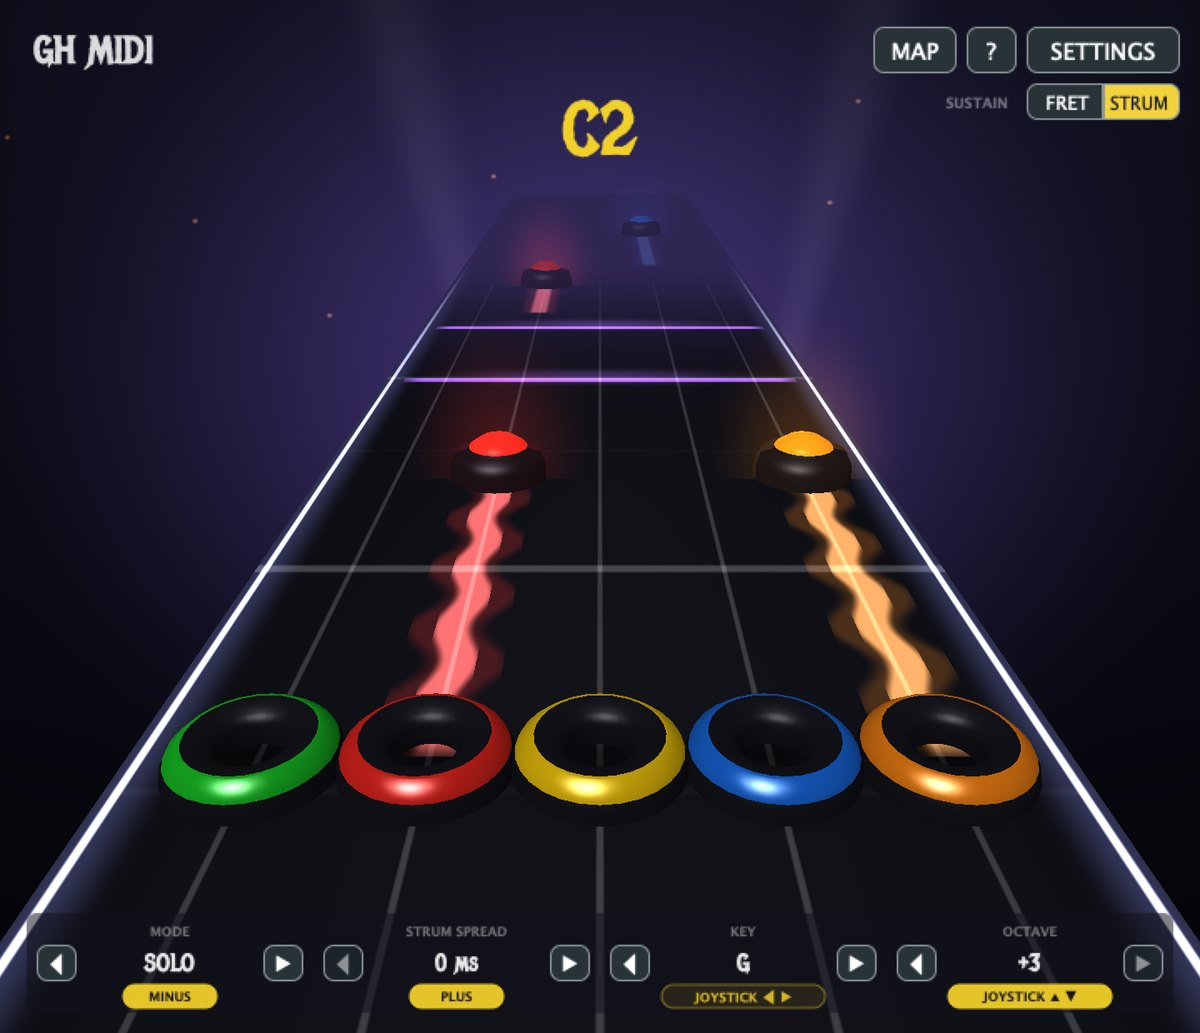
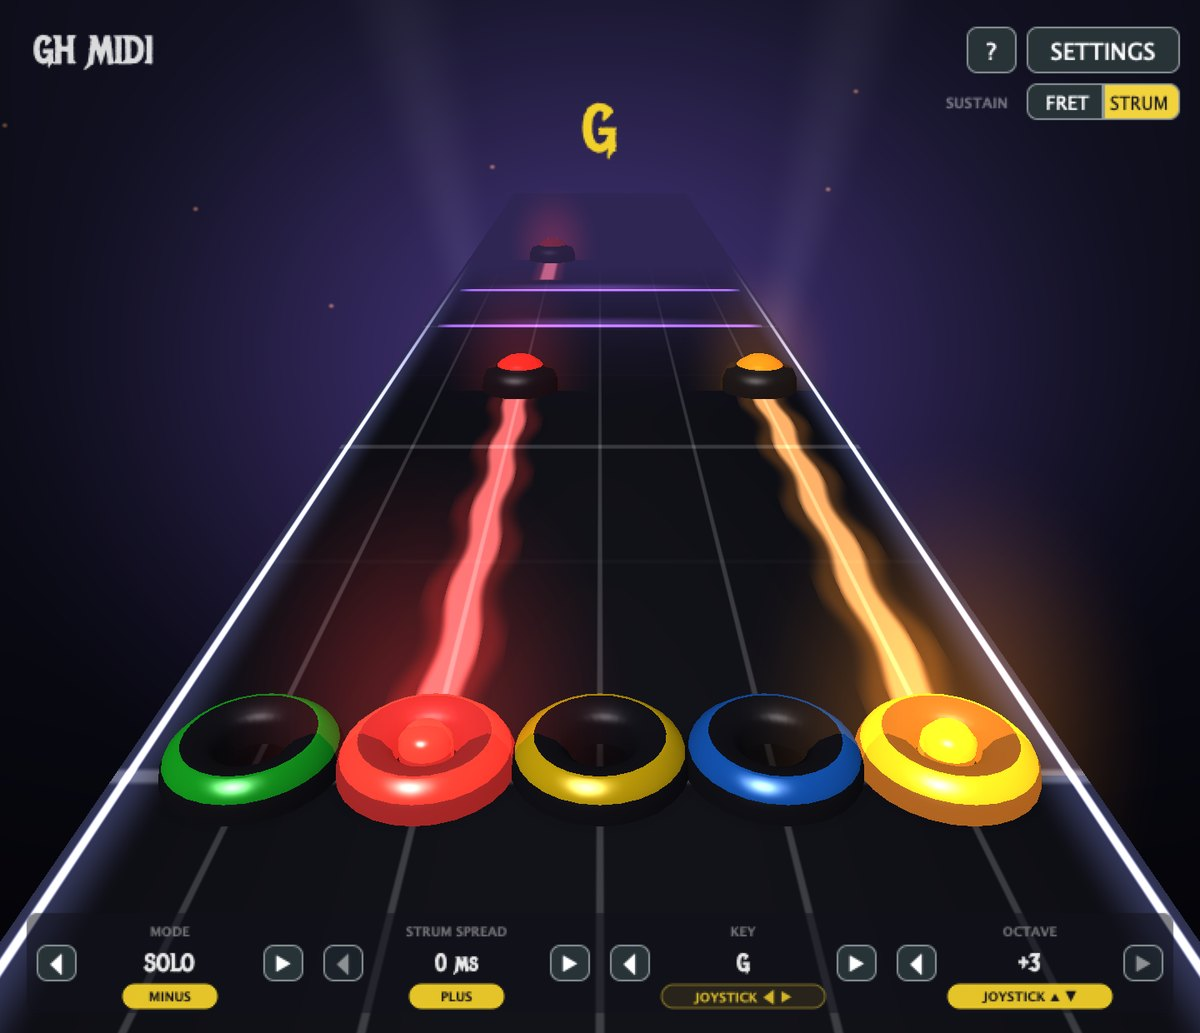
Remove the MAP overlay; final v1.1 build
The fret-shape legend lives in the guide instead. Screenshots regenerated
without the MAP button; README and guide no longer mention it.

diff --git a/plugin/src/PluginEditor.cpp b/plugin/src/PluginEditor.cpp
@@ -35,11 +35,7 @@ juce::Rectangle<int> panelBounds(int W, int H)
 }
 juce::Rectangle<int> helpBounds(int W, int H)
 {
-    return { W / 2 - 230, H / 2 - 215, 460, 430 };
-}
-juce::Rectangle<int> mapBounds(int W, int H)
-{
-    return { W / 2 - 250, H / 2 - 200, 500, 400 };
+    return { W / 2 - 230, H / 2 - 205, 460, 410 };
 }
 // bottom row: MODE / STRUM / KEY / OCTAVE plate — label row, value row with
 // arrows, then a badge naming the guitar control (minus and plus side by side)
@@ -61,13 +57,9 @@ GHMidiEditor::GHMidiEditor(GHMidiProcessor& p)
     context.attachTo(*this);
 
     addAndMakeVisible(gearBtn);
-    gearBtn.onClick = [this] { setHelpVisible(false); setMapVisible(false); setPanelVisible(! panelOpen); };
+    gearBtn.onClick = [this] { setHelpVisible(false); setPanelVisible(! panelOpen); };
     addAndMakeVisible(helpBtn);
-    helpBtn.onClick = [this] { setPanelVisible(false); setMapVisible(false); setHelpVisible(! helpOpen); };
-    addAndMakeVisible(mapBtn);
-    mapBtn.onClick = [this] { setPanelVisible(false); setHelpVisible(false); setMapVisible(! mapOpen); };
-    addChildComponent(mapCloseBtn);
-    mapCloseBtn.onClick = [this] { setMapVisible(false); };
+    helpBtn.onClick = [this] { setPanelVisible(false); setHelpVisible(! helpOpen); };
 
     // sustain selector: a radio pair, the active side in gold
     sustainLabel.setText("SUSTAIN", juce::dontSendNotification);
@@ -254,17 +246,9 @@ void GHMidiEditor::setHelpVisible(bool visible)
     repaint();
 }
 
-void GHMidiEditor::setMapVisible(bool visible)
-{
-    mapOpen = visible;
-    mapCloseBtn.setVisible(visible);
-    updateHudButtons();
-    repaint();
-}
-
 void GHMidiEditor::updateHudButtons()
 {
-    const bool show = ! panelOpen && ! helpOpen && ! mapOpen;
+    const bool show = ! panelOpen && ! helpOpen;
     for (auto* c : std::initializer_list<juce::Component*> {
              &modePrev, &modeNext, &strumPrev, &strumNext, &keyPrev, &keyNext, &octPrev, &octNext })
         c->setVisible(show);
@@ -325,14 +309,10 @@ void GHMidiEditor::timerCallback()
             case 75:  saveHudSnapshot("solo_maxoct"); break;
             case 77:  svc.uiMode = 3; svc.uiButtonBits = 0; svc.announceFrets(0x03); break;
             case 79:  saveHudSnapshot("chart"); break;
-            case 82:  svc.uiMode = 0; svc.uiKey = 7; svc.uiEasyOct = 0; svc.uiFretBits = 0x03; setMapVisible(true); break;
-            case 88:  saveHudSnapshot("map_chords"); break;
-            case 90:  svc.uiMode = 1; svc.uiKey = 0; svc.uiOctave = 0; svc.uiFretBits = 5; break;
-            case 96:  saveHudSnapshot("map_notes"); break;
-            case 98:  svc.uiFretBits = 0; setMapVisible(false); setHelpVisible(true); break;
-            case 106: saveHudSnapshot("help"); break;
-            case 108: setHelpVisible(false); setPanelVisible(true); break;
-            case 116: saveHudSnapshot("settings"); break;
+            case 82:  setHelpVisible(true); break;
+            case 90:  saveHudSnapshot("help"); break;
+            case 95:  setHelpVisible(false); setPanelVisible(true); break;
+            case 105: saveHudSnapshot("settings"); break;
             case 135: juce::JUCEApplicationBase::quit(); break;
             default: break;
         }
@@ -381,11 +361,6 @@ void GHMidiEditor::resized()
     highway.setViewSize(getWidth(), getHeight());
     gearBtn.setBounds(getWidth() - 104, 16, 92, 28);
     helpBtn.setBounds(getWidth() - 140, 16, 30, 28);
-    mapBtn.setBounds(getWidth() - 196, 16, 50, 28);
-    {
-        const auto mb = mapBounds(getWidth(), getHeight());
-        mapCloseBtn.setBounds(mb.getRight() - 40, mb.getY() + 12, 28, 26);
-    }
     // SUSTAIN  [FRET][STRUM]  -- flush right with SETTINGS, one row below it
     sustainStrumBtn.setBounds(getWidth() - 104 + 46, 50, 46, 22);
     sustainFretBtn.setBounds(getWidth() - 104, 50, 46, 22);
@@ -612,7 +587,6 @@ void GHMidiEditor::paint(juce::Graphics& g)
         line("PLUS", "tap through strum speeds (0-50ms)");
         line("JOYSTICK", "left/right = key - up/down = octave");
         line("ON SCREEN", "the bottom arrows do all of the above too");
-        line("MAP", "every fret shape in this mode and key, live");
         rowY += 8;
         section("MODES");
         line("CHORDS", "every fret is a chord in your key. can't miss", 70);
@@ -620,128 +594,5 @@ void GHMidiEditor::paint(juce::Graphics& g)
         line("NOTES", "fret combos pick all 32 notes. full control", 70);
         line("CHART", "frets = Clone Hero lanes. record a rough chart", 70);
     }
-    else if (mapOpen)
-    {
-        // MAP: every fret shape the current mode can play, named for the current key,
-        // GHMix-style: five gem tabs per row, the held shape's row lit
-        const auto mb = mapBounds(getWidth(), getHeight());
-        const int mode = proc.guitar().uiMode.load() % 4;
-        const int key = proc.guitar().uiKey.load() % 12;
-        const int oct = mode == 0 ? proc.guitar().uiEasyOct.load() : proc.guitar().uiOctave.load();
-        const int held = proc.guitar().uiFretBits.load();
-        auto label = [&](int mask) { return GuitarService::comboLabel(mode, mask, key, oct); };
-        auto noteNm = [&](int n) { return juce::String(keyNames[n % 12]) + juce::String(n / 12 - 1); };
 
-        drawOverlayFrame(mb.toFloat(), juce::String("MAP  ") + modeNames[mode]);
-        juce::String sub;
-        if (mode == 1)
-            sub = "base " + noteNm(40 + key + oct) + "  ·  G=1  R=2  Y=4  B=8  O=16, add up = semitones above base";
-        else if (mode == 3)
-            sub = "Clone Hero lanes  ·  expert · hard · medium · easy";
-        else
-            sub = "key of " + juce::String(keyNames[key]) + (oct != 0 ? "  ·  octave " + juce::String(oct > 0 ? "+" : "") + juce::String(oct / 12) : juce::String());
-        g.setColour(juce::Colours::white.withAlpha(0.45f));
-        g.setFont(juce::Font(juce::FontOptions(11.0f)));
-        g.drawText(sub, mb.getX() + 20, mb.getY() + 42, mb.getWidth() - 40, 14, juce::Justification::left);
-
-        auto tabs = [&](int x, int y, int mask)
-        {
-            for (int i = 0; i < 5; ++i)
-            {
-                juce::Path p;
-                p.addRoundedRectangle((float) (x + i * 12), (float) y, 9.0f, 15.0f, 2.5f, 2.5f, false, false, true, true);
-                g.setColour((mask & (1 << i)) ? gemColours[i] : juce::Colour(0xff2b2b36));
-                g.fillPath(p);
-            }
-        };
-        auto row = [&](int x, int y, int w, int mask, const juce::String& text, bool hi)
-        {
-            if (hi)
-            {
-                g.setColour(gold.withAlpha(0.18f));
-                g.fillRoundedRectangle((float) x - 6.0f, (float) y - 4.0f, (float) w, 23.0f, 4.0f);
-            }
-            tabs(x, y, mask);
-            g.setColour(juce::Colours::white.withAlpha(hi ? 0.95f : 0.85f));
-            g.setFont(juce::Font(juce::FontOptions(12.5f)));
-            g.drawText(text, x + 68, y - 2, w - 74, 18, juce::Justification::left);
-        };
-        auto header = [&](int x, int y, const juce::String& s)
-        {
-            g.setColour(juce::Colours::white.withAlpha(0.38f));
-            g.setFont(juce::Font(juce::FontOptions(9.0f, juce::Font::bold)));
-            g.drawText(s, x, y, 300, 10, juce::Justification::left);
-        };
-        auto footnote = [&](const juce::String& s)
-        {
-            g.setColour(juce::Colours::white.withAlpha(0.4f));
-            g.setFont(juce::Font(juce::FontOptions(11.0f)));
-            g.drawText(s, mb.getX() + 30, mb.getBottom() - 54, mb.getWidth() - 60, 14, juce::Justification::left);
-        };
-        const int top = mb.getY() + 74;
-        if (mode == 0)
-        {
-            const int hiMask = held != 0 ? GuitarService::easyRowMask(held) : -1;
-            int x = mb.getX() + 30, y = top;
-            header(x, y, "ONE FRET");
-            y += 18;
-            for (int m : { 1, 2, 4, 8, 16 })
-            {
-                row(x, y, 210, m, label(m), hiMask == m);
-                y += 25;
-            }
-            row(x, y, 210, 0, label(0) + "   open, low", false);
-            x = mb.getX() + 268;
-            y = top;
-            header(x, y, "TWO FRETS");
-            y += 18;
-            for (int m : { 3, 6, 12, 24, 5, 20, 10, 9, 18 })
-            {
-                row(x, y, 210, m, label(m), hiMask == m);
-                y += 25;
-            }
-            footnote("any other shape plays its highest fret's chord");
-        }
-        else if (mode == 1)
-        {
-            for (int n = 0; n < 32; ++n)
-            {
-                const int x = mb.getX() + 24 + (n / 8) * 114;
-                const int y = top + (n % 8) * 26;
-                row(x, y, 110, n, label(n), held == n);
-            }
-            footnote("frets change silently until the next strum");
-        }
-        else if (mode == 2)
-        {
-            static const char* deg[] = { "1", "2", "3", "5", "6" };
-            int x = mb.getX() + 30, y = top;
-            header(x, y, "FRET   SCALE STEP   NOTE");
-            y += 18;
-            for (int i = 0; i < 5; ++i)
-            {
-                row(x, y, 260, 1 << i, juce::String(deg[i]) + "      " + label(1 << i), held == (1 << i));
-                y += 25;
-            }
-            row(x, y, 260, 0, "open   " + label(0), false);
-            footnote("hold several and strum: they all sound, and each stops when its fret lifts");
-        }
-        else
-        {
-            int x = mb.getX() + 30, y = top;
-            header(x, y, "LANE");
-            header(x + 150, y, "EXPERT     HARD     MEDIUM     EASY");
-            y += 18;
-            for (int i = 0; i < 5; ++i)
-            {
-                row(x, y, 420, 1 << i, label(1 << i), (held & (1 << i)) != 0);
-                g.setColour(juce::Colours::white.withAlpha(0.6f));
-                g.setFont(juce::Font(juce::FontOptions(12.0f)));
-                g.drawText(juce::String(96 + i) + "            " + juce::String(84 + i) + "            " + juce::String(72 + i) + "            " + juce::String(60 + i),
-                           x + 150, y - 2, 260, 18, juce::Justification::left);
-                y += 25;
-            }
-            footnote("all four difficulties are written at once");
-        }
-    }
 }

diff --git a/guide/build_guide.py b/guide/build_guide.py
@@ -251,12 +251,12 @@ def p_controller():
 <p>The WUSBMote only finds the guitar <b>when it gets power</b>. If the screen says <i>adapter can't see the guitar</i>: unplug USB, seat the guitar plug, plug USB back in.</p>"""
 
 def p_screen():
-    callouts = [(68, 5, 1), (57, 14, 2), (50, 58, 3), (12, 92, 4), (37, 92, 5), (62, 92, 6), (87, 92, 7), (69, 10.5, 8)]
+    callouts = [(76, 5, 1), (57, 14, 2), (50, 58, 3), (12, 92, 4), (37, 92, 5), (62, 92, 6), (87, 92, 7), (69, 10.5, 8)]
     dots = "".join(f'<span class="callout" style="left:{x}%;top:{y}%">{n}</span>' for x, y, n in callouts)
     return h2("05", "The screen") + f"""
 <div class="shotwrap mid"><img class="shot" src="assets/ui-chords.jpg" alt="">{dots}</div>
 <table class="legend">
-<tr><td><span class="cn">1</span></td><td><b>MAP, ? and SETTINGS</b> — every fret shape for this mode and key, a quick controls reminder, and the settings panel.</td></tr>
+<tr><td><span class="cn">1</span></td><td><b>? and SETTINGS</b> — quick controls reminder, and the settings panel.</td></tr>
 <tr><td><span class="cn">2</span></td><td><b>What you played</b> — the chord or note name, and every setting change.</td></tr>
 <tr><td><span class="cn">3</span></td><td><b>The highway</b> — your notes travel away as gems. Held notes trail; the whammy wiggles them.</td></tr>
 <tr><td><span class="cn">4</span></td><td><b>MODE</b> — CHORDS, NOTES, SOLO or CHART. Arrows or minus.</td></tr>
@@ -326,9 +326,7 @@ def p_chords():
 </table>
 <p class="muted" style="margin-top:6pt">Any other combination plays the highest fret's chord.</p>
 </div>
-</div>
-<p class="muted" style="margin-top:8pt">The <b>MAP</b> button shows this table live, in whatever key you're in, and lights the row you're holding.</p>
-<img class="shot small" src="assets/ui-map.jpg" alt="">"""
+</div>"""""
 
 def p_songs():
     progs = [

diff --git a/plugin/src/PluginProcessor.cpp b/plugin/src/PluginProcessor.cpp
@@ -705,57 +705,6 @@ void GuitarService::learnTick(const uint8_t* d, int len, double now)
     }
 }
 
-// ---------- labels for the MAP overlay ----------
-juce::String GuitarService::comboLabel(int md, int mask, int key, int oct)
-{
-    switch (md)
-    {
-        case Easy:
-        {
-            if (mask == 0)
-                return noteName(kBassBase + key + oct);
-            ChordDef cd;
-            int m = easyRowMask(mask);
-            if (m == 0 || ! chordForMask(m, cd))
-                return {};
-            return juce::String(noteNames[(kChordRootBase + key + oct + cd.rootOff) % 12]) + cd.suffix;
-        }
-        case Real:
-            return noteName(kRealBase + key + oct + mask);
-        case Penta:
-        {
-            if (mask == 0)
-                return noteName(pentaNote(key, oct, -1));
-            juce::String s;
-            for (int i = 0; i < 5; ++i)
-                if (mask & (1 << i))
-                    s += (s.isEmpty() ? juce::String() : juce::String("+")) + juce::String(noteNames[pentaNote(key, oct, i) % 12]);
-            return s;
-        }
-        default:
-        {
-            static const char* names[] = { "green", "red", "yellow", "blue", "orange" };
-            for (int i = 0; i < 5; ++i)
-                if (mask == (1 << i))
-                    return names[i];
-            return {};
-        }
-    }
-}
-
-int GuitarService::easyRowMask(int mask)
-{
-    if (mask == 0)
-        return 0;
-    ChordDef cd;
-    if (chordForMask(mask, cd))
-        return mask;
-    for (int i = 4; i >= 0; --i)
-        if (mask & (1 << i))
-            return 1 << i;
-    return 0;
-}
-
 // ---------- mode / key / octave (guitar thread only) ----------
 void GuitarService::cycleMode(int dir)
 {

diff --git a/plugin/src/PluginEditor.h b/plugin/src/PluginEditor.h
@@ -16,7 +16,6 @@ private:
     void timerCallback() override;
     void setPanelVisible(bool visible);
     void setHelpVisible(bool visible);
-    void setMapVisible(bool visible);
     void updateHudButtons();
     void refreshDeviceBox();
     void refreshMappingRows();
@@ -25,9 +24,9 @@ private:
     HighwayRenderer highway;
     juce::OpenGLContext context;
 
-    bool panelOpen = false, helpOpen = false, mapOpen = false;
+    bool panelOpen = false, helpOpen = false;
 
-    juce::TextButton gearBtn { "SETTINGS" }, helpBtn { "?" }, mapBtn { "MAP" }, mapCloseBtn { "X" };
+    juce::TextButton gearBtn { "SETTINGS" }, helpBtn { "?" };
 
     // which control decides how long a note lasts: the fret (default) or the
     // strum bar. Lives on the main view under ? / SETTINGS, not in the panel.

diff --git a/plugin/src/PluginProcessor.h b/plugin/src/PluginProcessor.h
@@ -116,10 +116,6 @@ public:
     juce::String describeMapping(int target) const;
     static juce::String targetName(int target);
 
-    // ---- fret-shape labels for the on-screen MAP (pure functions of the same tables the engine plays from) ----
-    static juce::String comboLabel(int mode, int mask, int key, int octaveSemis);
-    static int easyRowMask(int mask);   // CHORDS: the row a held shape actually plays (unmapped -> top fret)
-
     void requestSave() { saveRequest = true; notify(); }
 
     juce::String getLastPlayed() const

diff --git a/README.md b/README.md
@@ -29,9 +29,6 @@ through strum speeds, the joystick changes key (left/right) and octave
 controllers without a joystick. Any HID controller can be mapped
 from the in-plugin settings (per-control LEARN, live input testing).
 
-**MAP** (top right) shows every fret shape the current mode can play, named for
-the current key, and lights the row you're holding.
-
 **No DAW required.** The release also ships a standalone macOS app: while it
 runs, every DAW and synth app on the Mac sees a MIDI input called "GH MIDI"
 (Logic, GarageBand, Ableton, FL, Reaper, ...). Run either the app or the
